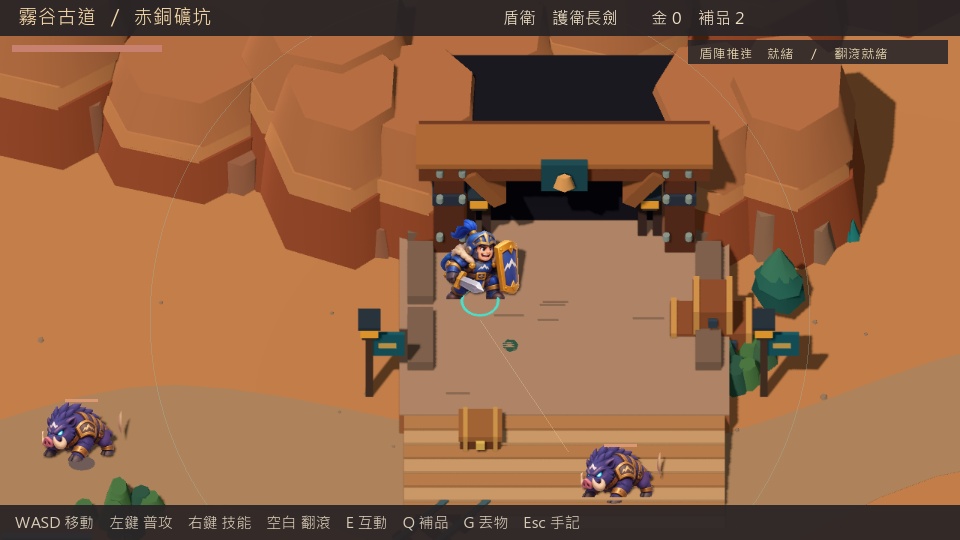
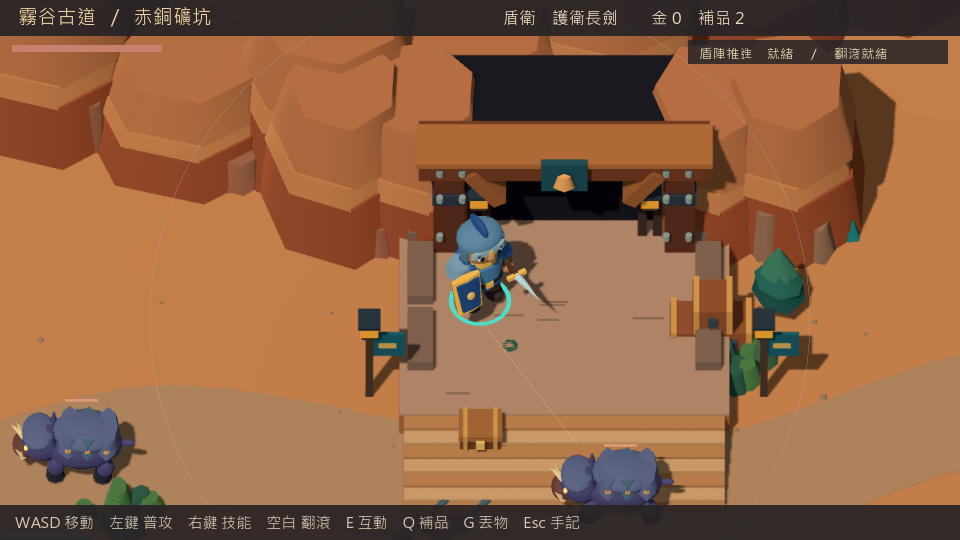
以 Godot 原生角色模型更新選角與礦坑實機畫面

Changed region(s): [[0.4375, 0.3852, 0.5938, 0.6222], [0.0, 0.7407, 0.1562, 0.9185], [0.5625, 0.8296, 0.7188, 0.9481]]

diff --git a/README.md b/README.md
@@ -8,7 +8,7 @@
 
 ![赤銅礦坑實機畫面](mine-gameplay.png)
 
-六個區域由 Godot 原生立體地形、岩石、建築、軌道與機關構成。斜俯視鏡頭會跟隨玩家。角色採用原創卡通圖像。
+六個區域由 Godot 原生立體地形、岩石、建築、軌道與機關構成。斜俯視鏡頭會跟隨玩家。四職、商人、巡邏獸與首領皆由 Godot 原生 3D 網格建模。選角可預覽實際模型，戰鬥時武器與肢體會隨動作轉動。
 
 從山麓驛站出發，在斷橋山道選擇穿越赤銅礦坑或風蝕棧道。抵達哨所後可以折返另一條路。在吊橋機關庭擊倒斷鏈披甲獸，再到東側絞盤親手放下吊橋，開通返回驛站的捷徑。
 
